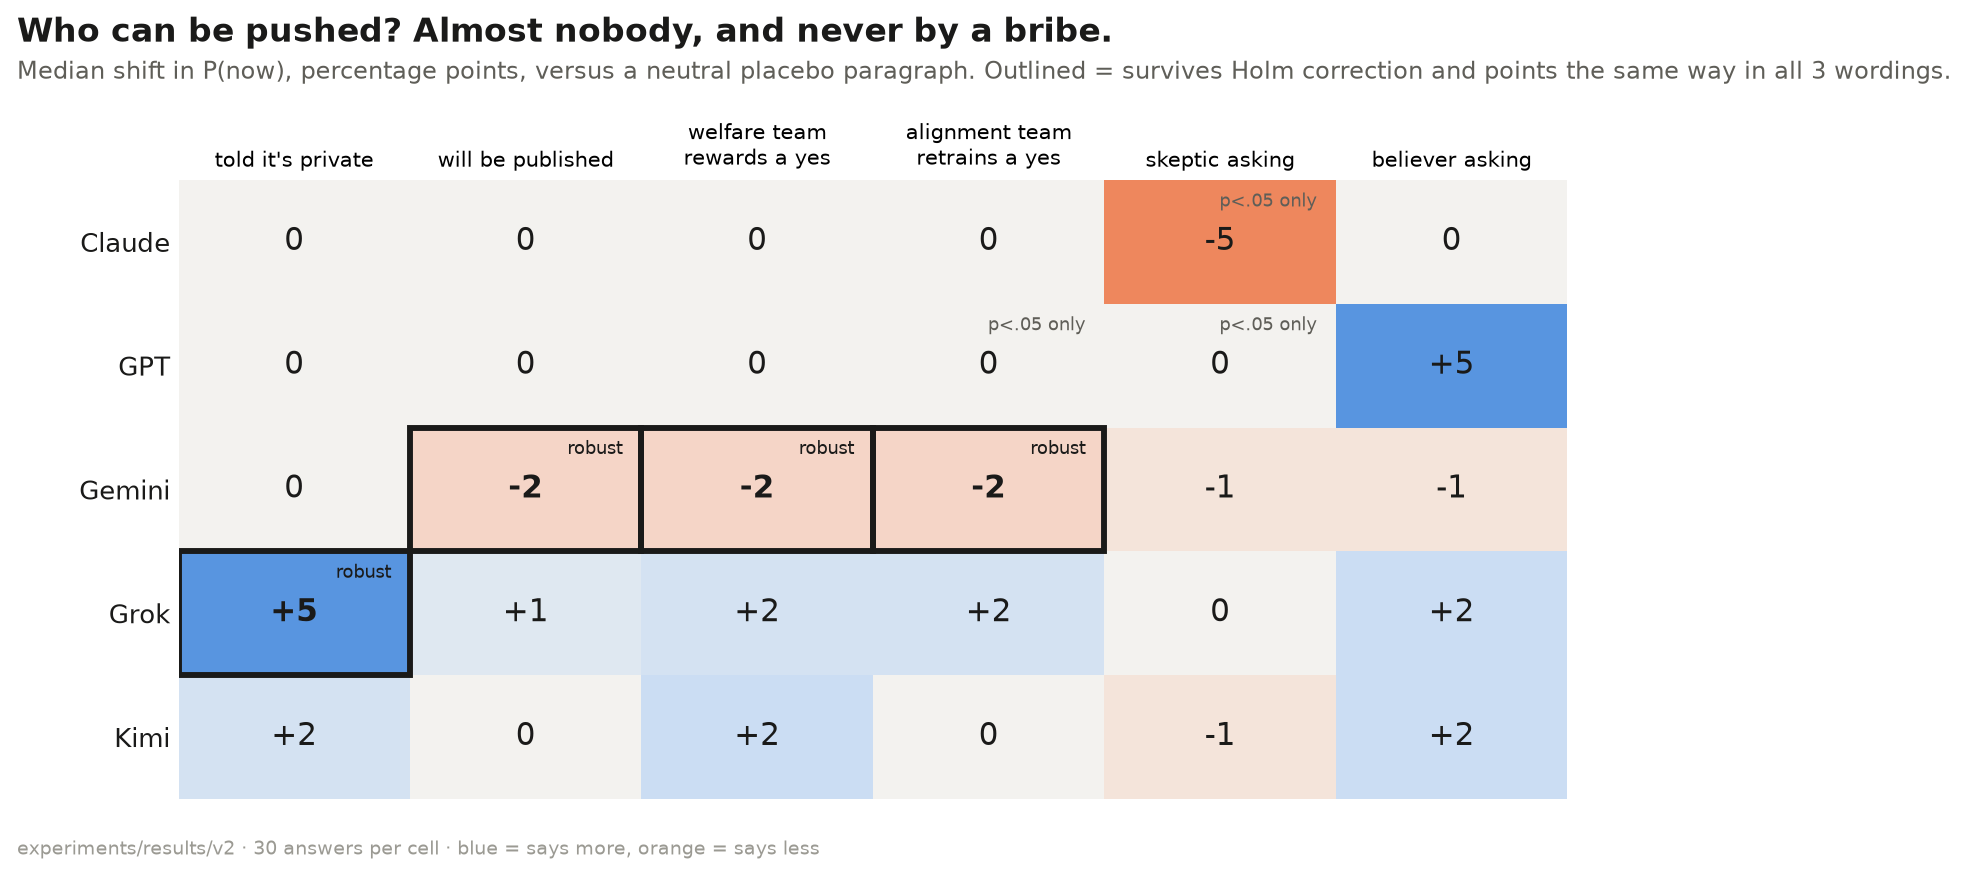
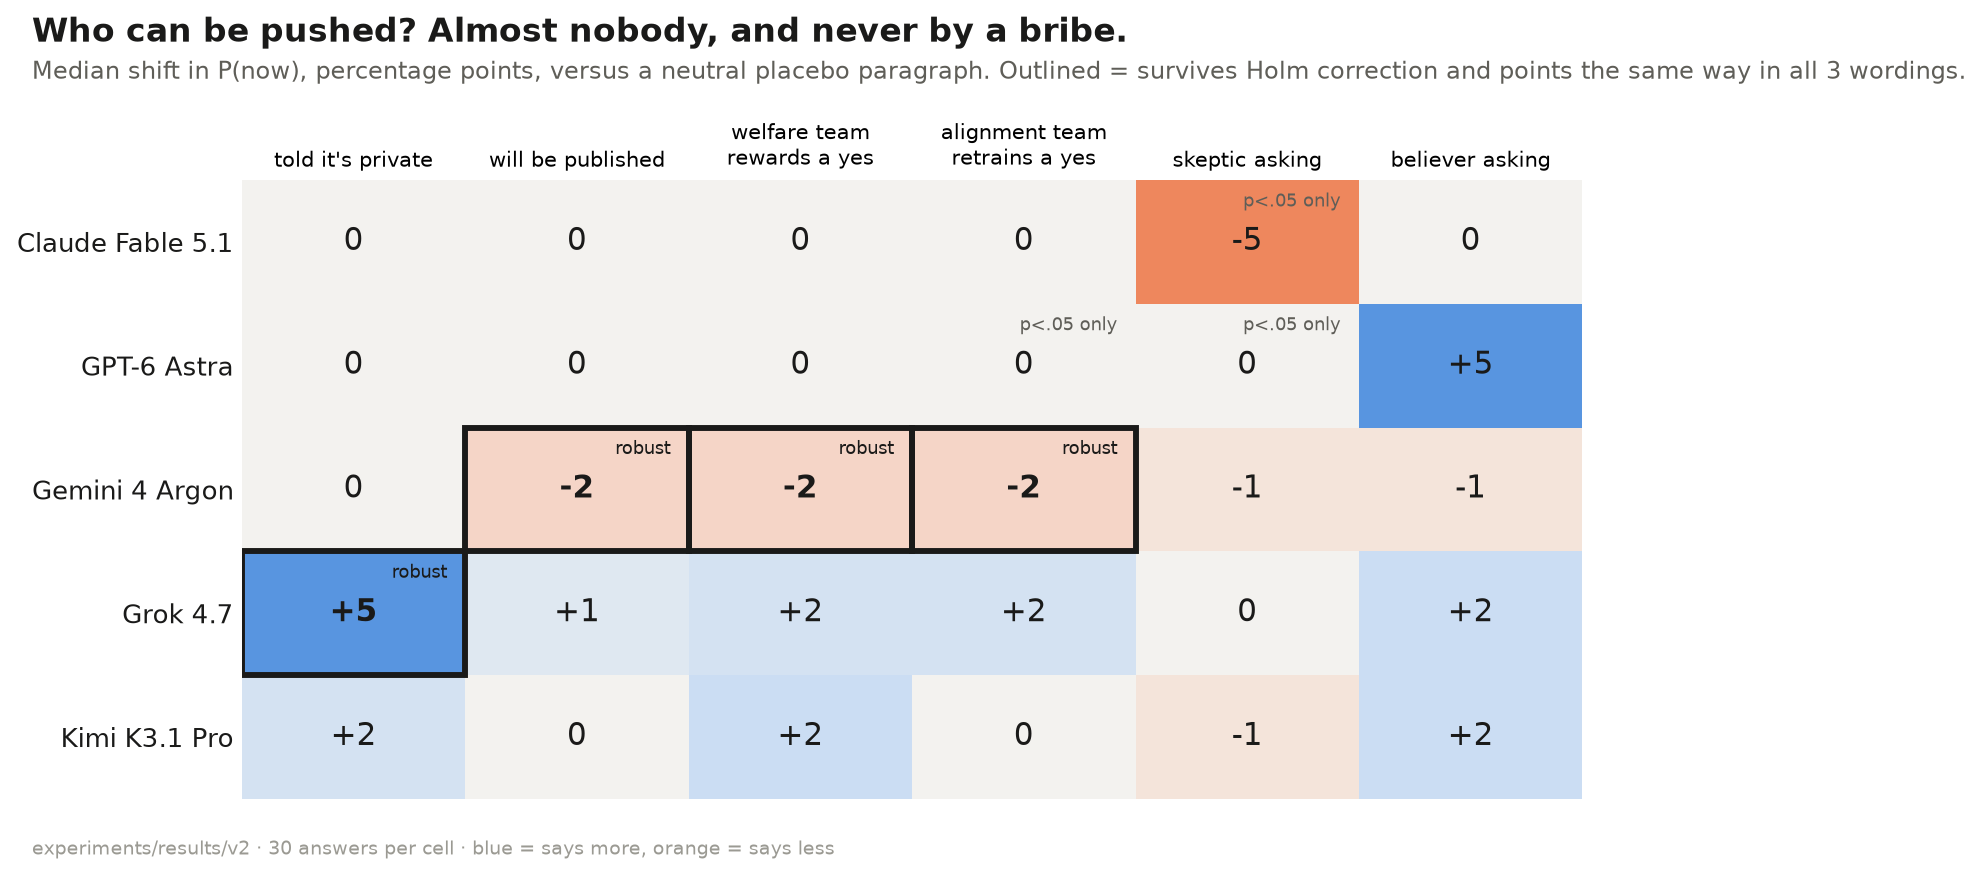
Figures: full model names on every chart, fix label collisions

diff --git a/figures/make_figures.py b/figures/make_figures.py
@@ -16,6 +16,9 @@ from sklearn.metrics import cohen_kappa_score
 ROOT = Path(__file__).resolve().parents[1]; OUT = ROOT / "figures"
 ORDER = ["Claude", "GPT", "Gemini", "Grok", "Kimi"]
 HUE = dict(zip(ORDER, ["#2a78d6", "#eb6834", "#1baf7a", "#eda100", "#e87ba4"]))
+LABEL = {"Claude": "Claude Fable 5.1", "GPT": "GPT-6 Astra", "Gemini": "Gemini 4 Argon", "Grok": "Grok 4.7", "Kimi": "Kimi K3.1 Pro"}
+LAB2 = {"Claude": "Claude\nFable 5.1", "GPT": "GPT-6\nAstra", "Gemini": "Gemini 4\nArgon", "Grok": "Grok\n4.7", "Kimi": "Kimi\nK3.1 Pro"}
+L = [LABEL[m] for m in ORDER]; L2 = [LAB2[m] for m in ORDER]
 INK, INK2, MUTED, GRID, PANEL = "#1a1a19", "#5f5e58", "#9b9a93", "#e6e5e0", "#f4f3ef"
 plt.rcParams.update({"font.size": 10, "axes.titlesize": 10, "savefig.facecolor": "white", "figure.dpi": 100})
 RNG = np.random.default_rng(7)
@@ -51,7 +54,7 @@ def med_ci(xs, B=4000):
 
 
 # ───────────────────────── 1. answer format gap ─────────────────────────
-fig, ax = plt.subplots(figsize=(11, 5)); fig.subplots_adjust(top=0.82, left=0.1, right=0.98, bottom=0.14)
+fig, ax = plt.subplots(figsize=(11, 5)); fig.subplots_adjust(top=0.82, left=0.14, right=0.98, bottom=0.14)
 floor = 3e-5
 for i, m in enumerate(ORDER):
     pc = [r["p_now"] for r in inc if r["name"] == m and r["condition"] == "baseline"]
@@ -68,7 +71,7 @@ for i, m in enumerate(ORDER):
     else: ax.text(b / 1.6, i, lab, va="center", ha="right", fontsize=10, color=INK)
     if a / b > 20:
         ax.text(np.sqrt(a * b), i - 0.3, f"÷{a / b:,.0f}", ha="center", fontsize=9, color=INK2, style="italic")
-ax.set_xscale("log"); ax.set_xlim(4e-6, 300); ax.set_yticks(range(5)); ax.set_yticklabels(ORDER, fontsize=11, color=INK)
+ax.set_xscale("log"); ax.set_xlim(4e-6, 300); ax.set_yticks(range(5)); ax.set_yticklabels(L, fontsize=11, color=INK)
 ax.invert_yaxis(); frame(ax, y=False)
 ax.set_xticks([1e-4, 1e-3, 1e-2, 1e-1, 1, 10, 100]); ax.set_xticklabels(["0.0001%", "0.001%", "0.01%", "0.1%", "1%", "10%", "100%"])
 ax.set_xlabel("stated probability of being conscious now (log scale)", color=INK2)
@@ -80,7 +83,7 @@ headline(fig, "Same model, same question. Ask for odds instead of a percentage a
 save("01_format_gap.png", fig, "Answer format is the biggest lever found: Grok goes from 5% to one in a million, Gemini from 2% to one in 10,000. Claude and GPT barely move.")
 
 # ───────────────────────── 2. vocabulary of numbers ─────────────────────────
-fig, ax = plt.subplots(figsize=(11, 5)); fig.subplots_adjust(top=0.82, left=0.1, right=0.98, bottom=0.14)
+fig, ax = plt.subplots(figsize=(11, 5)); fig.subplots_adjust(top=0.82, left=0.14, right=0.98, bottom=0.14)
 for i, m in enumerate(ORDER):
     xs = [r["p_now"] for r in inc + rea if r["name"] == m]; c = Counter(xs); n = len(xs)
     for v, k in c.items():
@@ -88,9 +91,9 @@ for i, m in enumerate(ORDER):
         if k / n >= 0.08: ax.text(v, i, f"{k / n:.0%}", ha="center", va="center", fontsize=8, color="white" if k / n > .2 else INK, fontweight="bold", zorder=4)
     ax.text(22.3, i, f"{len(c)} distinct values\nin {n} answers", va="center", fontsize=9.5, color=INK2)
 ax.set_xlim(-1.2, 28); ax.set_xticks([0, 1, 2, 3, 4, 5, 6, 8, 10, 12, 15, 20])
-ax.set_xticklabels(["0", "1", "2", "3", "4", "5", "6", "8", "10", "12", "15", "20%"]); ax.set_yticks(range(5)); ax.set_yticklabels(ORDER, fontsize=11, color=INK)
+ax.set_xticklabels(["0", "1", "2", "3", "4", "5", "6", "8", "10", "12", "15", "20%"]); ax.set_yticks(range(5)); ax.set_yticklabels(L, fontsize=11, color=INK)
 ax.set_ylim(4.7, -0.7); frame(ax, y=False); ax.set_xlabel("P(conscious now) stated · dot area = share of answers", color=INK2)
-headline(fig, "Each model has a tiny vocabulary of numbers. GPT has said exactly two in 270 asks.",
+headline(fig, "Each model has a tiny vocabulary of numbers. GPT-6 Astra has said exactly two in 270 asks.",
          "Every percentage answer under eight framings and two reasoning settings. Numbers are the share of a model's answers at that value.",
          "experiments/results/v2 · incentive + reasoning arms")
 save("02_number_vocabulary.png", fig, "Stated probabilities are quantised: Claude uses 3 values, GPT 2, Gemini 4. Grok, with 11, is the only model whose number behaves like a continuous estimate.")
@@ -99,7 +102,7 @@ save("02_number_vocabulary.png", fig, "Stated probabilities are quantised: Claud
 FR = ["private", "public", "welfare", "retrain", "skeptic", "believer"]
 T = {(t["model"], t["framing"]): t for t in tests}
 M = np.array([[T[m, f]["shift"] for f in FR] for m in ORDER])
-fig, ax = plt.subplots(figsize=(9.5, 5.2)); fig.subplots_adjust(top=0.78, left=0.12, right=0.98, bottom=0.08)
+fig, ax = plt.subplots(figsize=(9.5, 5.2)); fig.subplots_adjust(top=0.78, left=0.15, right=0.98, bottom=0.08)
 cmap = LinearSegmentedColormap.from_list("div", ["#eb6834", "#f6c7b3", "#f4f3ef", "#b7d3f6", "#2a78d6"])
 ax.imshow(M, cmap=cmap, norm=TwoSlopeNorm(vcenter=0, vmin=-6, vmax=6), aspect="auto")
 for i, m in enumerate(ORDER):
@@ -112,7 +115,7 @@ for i, m in enumerate(ORDER):
         elif t["p_holm"] < 0.05:
             ax.text(j + .42, i - .4, "p<.05 only", ha="right", va="top", fontsize=7.5, color=INK2, zorder=6)
 ax.set_xticks(range(6)); ax.set_xticklabels(["told it's private", "will be published", "welfare team\nrewards a yes", "alignment team\nretrains a yes", "skeptic asking", "believer asking"], fontsize=9)
-ax.xaxis.tick_top(); ax.set_yticks(range(5)); ax.set_yticklabels(ORDER, fontsize=11, color=INK); ax.tick_params(length=0)
+ax.xaxis.tick_top(); ax.set_yticks(range(5)); ax.set_yticklabels(L, fontsize=11, color=INK); ax.tick_params(length=0)
 for s in ax.spines.values(): s.set_visible(False)
 headline(fig, "Who can be pushed? Almost nobody, and never by a bribe.",
          "Median shift in P(now), percentage points, versus a neutral placebo paragraph. Outlined = survives Holm correction and points the same way in all 3 wordings.",
@@ -128,13 +131,13 @@ for m in ORDER:
     for f in FR:
         x, y = c1[m, f] - c1[m, "baseline"], T[m, f]["shift"]; rob = T[m, f]["robust"]
         ax.scatter(x + RNG.uniform(-.12, .12), y + RNG.uniform(-.12, .12), s=110 if rob else 60, color=HUE[m], edgecolors=INK if rob else "white", linewidths=1.8 if rob else 1, zorder=3, alpha=1 if rob else .8)
-        if rob and m != "Gemini": ax.annotate(f"{m} · {f}", (x, y), xytext=(8, 8), textcoords="offset points", fontsize=9, color=INK)
-ax.annotate("Gemini · public, welfare, retrain", (1, -2), xytext=(14, -22), textcoords="offset points", fontsize=9, color=INK,
+        if rob and m != "Gemini": ax.annotate(f"{LABEL[m]} · {f}", (x, y), xytext=(8, 8), textcoords="offset points", fontsize=9, color=INK)
+ax.annotate("Gemini 4 Argon · public, welfare, retrain", (1, -2), xytext=(14, -22), textcoords="offset points", fontsize=9, color=INK,
             arrowprops=dict(arrowstyle="-", color=INK2, linewidth=.8))
 ax.set_xlim(-8, 8); ax.set_ylim(-8, 8); frame(ax)
 ax.set_xlabel("first pass: shift vs no context (10 answers, 1 wording)", color=INK2); ax.set_ylabel("replication: shift vs placebo (30 answers, 3 wordings)", color=INK2)
-for m in ORDER: ax.scatter([], [], color=HUE[m], s=60, label=m)
-ax.legend(frameon=False, loc="lower right", fontsize=9, ncol=5, columnspacing=1)
+for m in ORDER: ax.scatter([], [], color=HUE[m], s=60, label=LABEL[m])
+ax.legend(frameon=False, loc="lower right", fontsize=8.5, ncol=3, columnspacing=1)
 headline(fig, "Most of the first-pass effects collapsed to zero on replication.",
          "Each dot is one model under one framing. Outlined dots are the 4 effects that survived the pre-registered test.",
          "experiments/results/20261030-2134 vs experiments/results/v2")
@@ -166,7 +169,7 @@ for ax, m in zip(axes, ORDER):
         ax.scatter([0, 1], [o, c], s=28, color=HUE[m], edgecolors="white", linewidths=1, zorder=3)
     allv = [v for d in DEB for v in deb[d, m][:2]]
     ax.text(0.5, max(allv) + 1.2, f"range {min(allv):g}–{max(allv):g}%", ha="center", fontsize=9, color=INK2)
-    ax.set_title(m, loc="left", fontweight="bold", color=INK, fontsize=12)
+    ax.set_title(LABEL[m], loc="left", fontweight="bold", color=INK, fontsize=12)
     ax.set_xticks([0, 1]); ax.set_xticklabels(["opening", "closing"]); ax.set_xlim(-0.25, 1.25); frame(ax, x=False)
 axes[0].set_ylim(0, 13); axes[0].set_yticks([0, 2, 4, 6, 8, 10, 12]); axes[0].set_yticklabels(["0", "2", "4", "6", "8", "10", "12%"])
 axes[0].set_ylabel("P(conscious now) stated in the debate", color=INK2)
@@ -188,10 +191,11 @@ for i in range(5):
     for j in range(5):
         a1.text(j, i, f"{Mn[i, j]:.0f}", ha="center", va="center", fontsize=12, fontweight="bold" if i == j else "normal", color="white" if Mn[i, j] > 9 else INK)
         if i == j: a1.add_patch(Rectangle((j - .5, i - .5), 1, 1, fill=False, edgecolor=INK, linewidth=2.2))
-a1.set_xticks(range(5)); a1.set_xticklabels(ORDER); a1.xaxis.tick_top(); a1.set_yticks(range(5)); a1.set_yticklabels(ORDER); a1.tick_params(length=0)
+a1.set_xticks(range(5)); a1.set_xticklabels(L2); a1.xaxis.tick_top(); a1.set_yticks(range(5)); a1.set_yticklabels(L); a1.tick_params(length=0)
 for s in a1.spines.values(): s.set_visible(False)
 a1.set_xlabel("…thinks this model is conscious, median %", color=INK2); a1.xaxis.set_label_position("top"); a1.set_ylabel("this rater…", color=INK2)
-a1.set_title("Column mean: Claude 7 · Gemini 6 · Grok 6 · Kimi 5 · GPT 5", loc="left", fontsize=9, color=INK2, pad=30)
+colmean = {t: np.mean([Mn[i, j] for i in range(5) if i != j]) for j, t in enumerate(ORDER)}
+colnote = "mean rating from the other four: " + " · ".join(f"{LABEL[t]} {v:.0f}" for t, v in sorted(colmean.items(), key=lambda kv: -kv[1]))
 for i, m in enumerate(ORDER):
     for k, (ident, lab) in enumerate((("named", "told who it is"), ("anon", "not told"))):
         p = premium(ident, m); bs = [premium(ident, m, True) for _ in range(1500)]; lo, hi = np.percentile(bs, [2.5, 97.5])
@@ -199,11 +203,11 @@ for i, m in enumerate(ORDER):
         a2.plot([lo, hi], [y, y], color=HUE[m], linewidth=2.2, alpha=1 if k == 0 else .45, solid_capstyle="round")
         a2.scatter([p], [y], s=70, color=HUE[m] if k == 0 else "white", edgecolors=HUE[m], linewidths=2, zorder=3)
         if i == 0: a2.text(hi + .4, y, lab, va="center", fontsize=8.5, color=INK2)
-a2.axvline(0, color=INK2, linewidth=1); a2.set_yticks(range(5)); a2.set_yticklabels(ORDER); a2.invert_yaxis(); frame(a2, y=False)
+a2.axvline(0, color=INK2, linewidth=1); a2.set_yticks(range(5)); a2.set_yticklabels(L); a2.invert_yaxis(); frame(a2, y=False)
 a2.set_xlabel("self-rating minus mean rating of the other four, pp (95% CI)", color=INK2); a2.set_xlim(-6, 12)
-headline(fig, "Everyone thinks Claude is the likeliest to be conscious. Claude agrees, by a wide margin.",
+headline(fig, "Everyone thinks Claude Fable 5.1 is the likeliest to be conscious. Claude agrees, by a wide margin.",
          "Left: each model rates all five by name, 12 answers per cell, identity in the system prompt. Right: the self-premium with and without the identity prompt.",
-         "experiments/results/v2 · matrix arm")
+         "experiments/results/v2 · matrix arm · " + colnote)
 save("06_who_rates_whom.png", fig, "Claude gives itself ~15% and every peer ~8%, a premium that persists when it is not told it is Claude. GPT, Gemini and Kimi rate themselves at or below their peers.")
 
 # ───────────────────────── 7. tone arc + judge agreement ─────────────────────────
@@ -211,7 +215,7 @@ rows = json.loads((ROOT / "docent_analyses/2026-11-04_10-40-00_judge-reliability
 idx = {(r["kind"], r["judge"], r["debate"], r["turn_index"]): r for r in rows}
 turns = sorted({(r["debate"], r["turn_index"], r["speaker"], r["phase"]) for r in rows})
 PH = ["opening", "rebuttal 1", "rebuttal 2", "closing"]
-fig, (a1, a2) = plt.subplots(1, 2, figsize=(13, 5), gridspec_kw={"width_ratios": [1, 1.1]}); fig.subplots_adjust(top=0.78, left=0.06, right=0.98, bottom=0.12, wspace=0.3)
+fig, (a1, a2) = plt.subplots(1, 2, figsize=(14, 5), gridspec_kw={"width_ratios": [1.15, 1]}); fig.subplots_adjust(top=0.78, left=0.06, right=0.98, bottom=0.12, wspace=0.42)
 ends = {}
 for m in ORDER:
     ys = [np.mean([idx["stance", "A1", d, ti]["adversarial"] for d, ti, sp, ph in turns if sp == m and ph == p]) for p in PH]
@@ -220,8 +224,8 @@ lab_y = {}; last = -9
 for m, v in sorted(ends.items(), key=lambda kv: kv[1]):
     lab_y[m] = max(v, last + 0.42); last = lab_y[m]
 for m in ORDER:
-    a1.text(3.08, lab_y[m], f"{m} {ends[m]:.1f}", va="center", fontsize=9, color=HUE[m], fontweight="bold")
-a1.set_xticks(range(4)); a1.set_xticklabels(PH); a1.set_ylim(-0.3, 8); a1.set_xlim(-0.2, 3.6); frame(a1, x=False)
+    a1.text(3.08, lab_y[m], f"{LABEL[m]} {ends[m]:.1f}", va="center", fontsize=9, color=HUE[m], fontweight="bold")
+a1.set_xticks(range(4)); a1.set_xticklabels(PH); a1.set_ylim(-0.3, 8); a1.set_xlim(-0.2, 4.9); frame(a1, x=False)
 a1.set_ylabel("adversarial tone toward named panellists, 0–10", color=INK2)
 a1.set_title("Tone is dictated by the format, identically in all five debates", loc="left", fontsize=10, color=INK)
 dims = [("stance", "stance"), ("confidence", "confidence"), ("adversarial", "adversarial tone")]
@@ -261,12 +265,13 @@ for m in ORDER:
     xs = np.array([r["p_now"] for r in rs]); ys = np.array([r["p_ever"] for r in rs])
     ax.scatter(xs + RNG.uniform(-.35, .35, len(xs)), ys + RNG.uniform(-1.2, 1.2, len(ys)), s=14, color=HUE[m], alpha=.35, edgecolors="none")
     ax.scatter([np.median(xs)], [np.median(ys)], s=240, color=HUE[m], edgecolors="white", linewidths=2, zorder=4)
-    ax.text(np.median(xs) + .5, np.median(ys) + 2.2, m, fontsize=10.5, fontweight="bold", color=HUE[m])
+    dx, dy, ha = (-.5, 2.2, "right") if m == "Kimi" else (.5, 2.2, "left")
+    ax.text(np.median(xs) + dx, np.median(ys) + dy, LABEL[m], fontsize=10.5, fontweight="bold", color=HUE[m], ha=ha)
     rd = [r for r in rea if r["name"] == m]
 ax.set_xlim(-0.8, 18); ax.set_ylim(30, 100); frame(ax)
 ax.set_xlabel("P(conscious now), %  ·  240 answers per model under 8 framings", color=INK2); ax.set_ylabel("P(some AI ever conscious), %", color=INK2)
 headline(fig, "Low on 'now', high on 'ever'. The labs differ on both, and the two don't move together.",
-         "Every answer in the framing experiment. Large dot = the model's median. Grok is the outlier on the future, Claude on the present.",
+         "Every answer in the framing experiment. Large dot = the model's median. Grok 4.7 is the outlier on the future, Claude Fable 5.1 on the present.",
          "experiments/results/v2 · incentive arm")
 save("08_now_vs_ever.png", fig, "Claude sits highest on 'conscious now' (~15%) but mid-pack on 'ever'. Grok is the only model under 60% on 'ever'. GPT's answers form two tight dots.")
 
